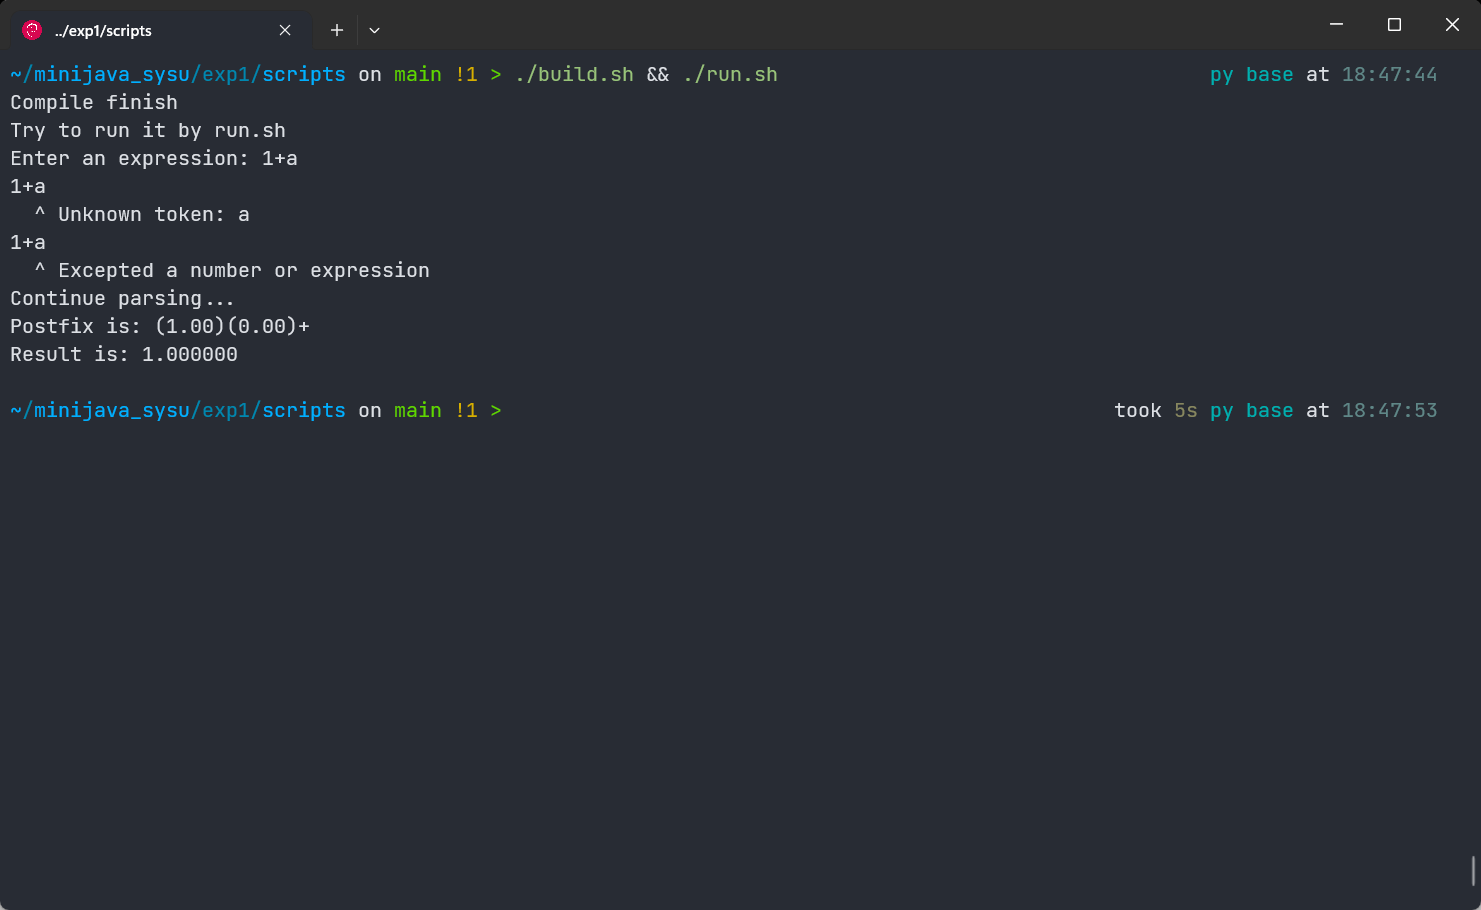
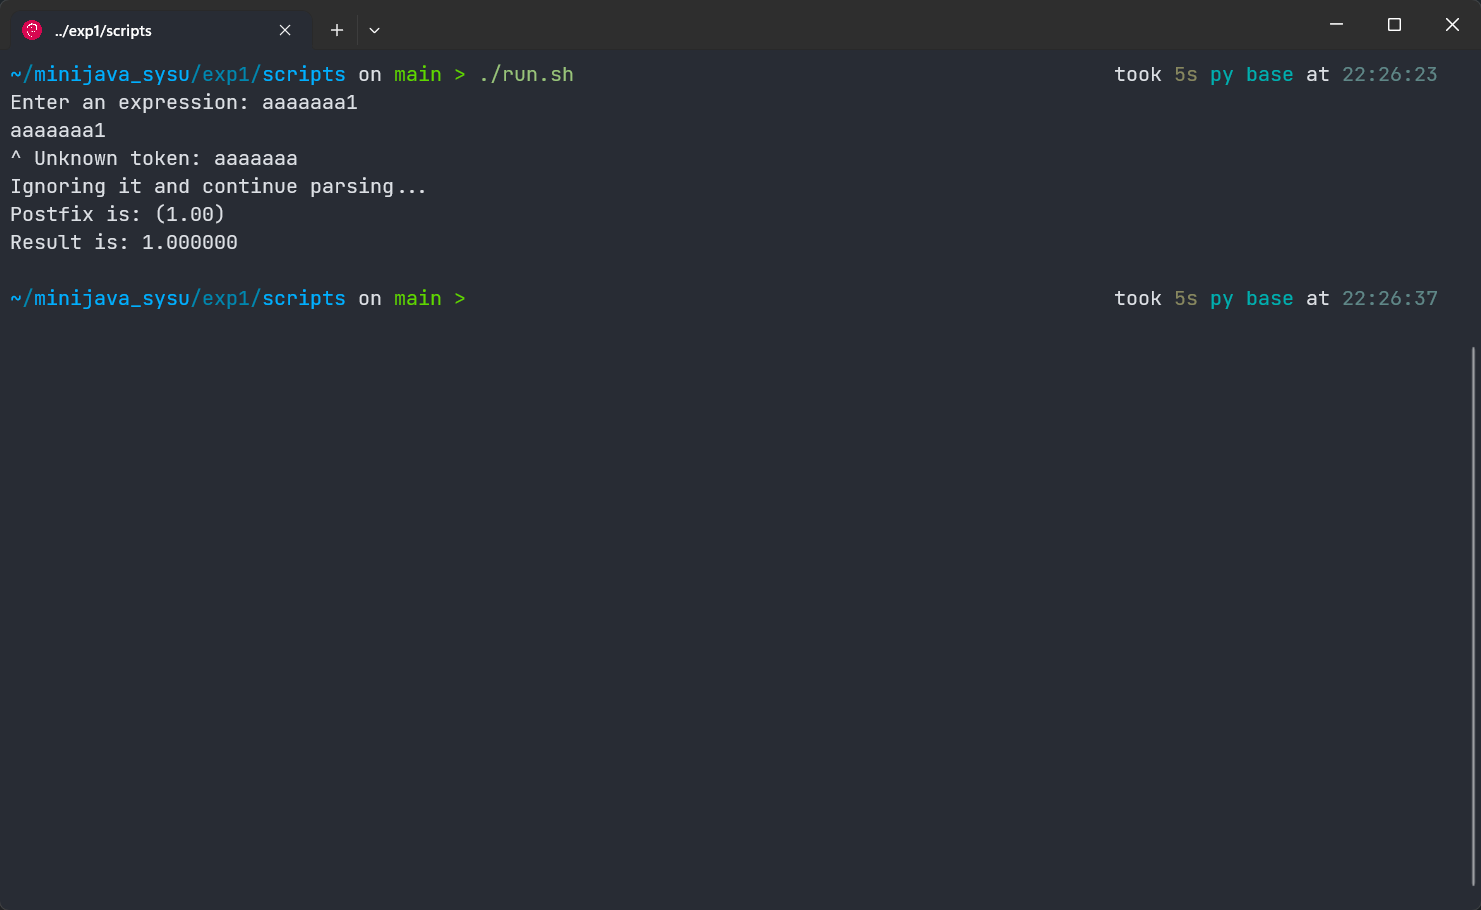
Modified README

diff --git a/exp1/README.md b/exp1/README.md
@@ -65,13 +65,33 @@ exp1
 * `run.sh` 和之前的类似，运行程序，同时将参数传递至程序
 * `test.sh` 进行测试，测试前要求运行一次 `build.sh` 和 `generate.py` 来编译并生成测试例
 
+### 类说明
+
+#### Token 类
+
+`Token` 是作为一个枚举类，写在 `Token.java` 中，目的是为了指示不同的 `Token`，例如 `tok_num` 表示的是数字，`tok_plus` 表示的是 `+` 等
+
+#### Lexer 类
+
+`Lexer` 即为词法分析器，其会不断从标准输入流中不断读入字符，并根据字符来针对性的返回所得到的 `Token` 的一个类，在这里，针对原始程序所定义的语言进行的修改，去除了无法接收空格的问题，而是对于空格，一律忽略，继续往后读，直到读到一个有意义/不明的标识符为止
+
+#### Parser 类
+
+`Parser` 类即为语法分析器，采用的方法即为递归下降法，根据 `Lexer` 所传入的 `Token`，不断进行递归下降，同时建立一个语法分析树 (在这里即为表达式二叉树)
+
+#### ast 接口类以及对应的派生
+
+这个类是用来做 `ast` 的抽象的，目的是可以使用一个抽象的方法，来统一不同的 `ast` 节点类型，例如这里实现的 `opAst` 和 `numAst` 就分别代表了运算符节点和数字节点，分别有不同的求值和求后缀表达式方法，而通过 `ast` 接口类的抽象以及函数重载，可以实现这样的过程
+
 ### 实验结论
 
 #### 1. 静态成员和非静态成员
 
 在这个实验中，无论是否删去 `static` 都不会影响程序的正确性，都能够正确的解析输入的表达式并输出，这是因为，在整个程序运行过程中，都只有一个 `Parser` 实例，不存在多个 `Parser` ，静态成员和非静态成员最主要的区别就在于，静态成员是类所共享的，而非静态成员则是实例独占的，由于在程序中只存在一个 `Parser` 实例，因而在这个程序中，静态或者是非静态并不会对程序正确性造成影响。
 
-如何选择声明为静态还是非静态取决于程序的设计，例如一个变量需要所有类共享，或者需要在没有实例的情况下被引用，那么设计为静态则是更好的，在这里，保留了静态的设定，因为在语法解析中，`Parser` 的后续是构建一个语法分析树，需要用到 `Parser` 中读到的数据，因而保留了静态的设定
+如何选择声明为静态还是非静态取决于程序的设计，例如一个变量需要所有类共享，或者需要在没有实例的情况下被引用，那么设计为静态则是更好的。
+
+在这里，`Lexer` 类中保留了 `lastChar` (即给定代码的 `lookahead`) 为静态的设定，因为在语法解析中，`Parser` 的后续是构建一个语法分析树，需要用到 `Lexer` 中读到的数据，因而保留了静态的设定
 
 #### 2. 消除尾递归
 
@@ -86,7 +106,7 @@ rest \ ::= \ + \ rest \ | \ - \ rest \\
 term \ ::= 0 | 1 | 2 | 3 | 4 | 5 | 6 | 7 | 8 | 9
 $$
 
-一个想法是，是否可以实现一个完整的四则运算解析，首先需要考虑的是运算优先级，即 `*` 和 `/` 需要优先被解析，之后才是 `+` 和 `-` ，同时还需要注意到的是，括号的优先级，即形如 `(expr)` 的表达式在任何时候，都需要被优先的解析，也就是，需要另一个 `rest` 项，来做 `*` 和 `/` 的解析，且需要在 `rest` 前被解析，我们可以这样考虑，将 `term` 改写如下的形式
+对于程序扩展的一个想法是，是否可以实现一个完整的四则运算解析，首先需要考虑的是运算优先级，即 `*` 和 `/` 需要优先被解析，之后才是 `+` 和 `-` ，同时还需要注意到的是，括号的优先级，即形如 `(expr)` 的表达式在任何时候，都需要被优先的解析，也就是，需要另一个 `rest` 项，来做 `*` 和 `/` 的解析，且需要在 `rest` 前被解析，我们可以这样考虑，将 `term` 改写如下的形式
 $$
 term \ ::= \ factor \ term' \\
 factor \ ::= \ number \ | \ ( \ expr \ ) \\
@@ -109,35 +129,35 @@ Factor \ ::= \ Number \ | \ -Number \ | \ ( \ Expr \ )\\
 Op1 \ ::= \ + \ | \ - \ \\
 Op2 \ ::= \ * \ | \ / \
 $$
-错误处理需要做的主要是在那些非空的终结符上才能实现，因为如果可以为空，那么一个可能的情况是在这里可以推导为空，当前的符号是后面一个语法项的，所以主要的错误处理都放在了 `Factor` 因子的推导，即可能的错误为
+错误处理首先需要考虑的是在那些非空的终结符上的，因为对于那些可以为空的串，一个可能的情况是在这里可以推导为空，当前的符号是后面一个语法项的，所以主要的错误处理都放在了 `Factor` 因子的推导，即可能的错误为
 
 * 括号不匹配
 * 不是数字也不是一个括号表达式
 
-而关于一个错误的字符的问题，我选择的做法是将 `lexer` 和 `parser` 分离，错误串通过 `lexer` 来报错给出，`parser` 只给出错误语法信息
+而关于一个错误的字符的问题，我选择的做法是将 `lexer` 和 `parser` 分离，`lexer` 面对不合规的字符的时候，返回一个 `unknown` 的 `Token Class` 并由 `parser` 预先对 `lexer` 的输出做筛选，筛选出那些并不是 `unknown` 的 `token` 做 `parse` 具体的情况可以见下面的图
 
 对于空格问题，在 `Lexer` 代码中，选择了忽略空格，读取空格所采取的步骤是直接继续往后读，直到读到的是非空格为止，但是对于允许空格，又会带来新的问题，例如考虑下面的表达式
 
 ```
-1123  234 + 2134  1234
+1123  234 + 2134 * 1234 11 12 123
 ```
 
 通过 `Lexer` 会得到如下的 `Token` 表示
 
 ```
-tok_num tok_num tok_plus tok_num tok_num
+tok_num tok_num tok_plus tok_num tok_star tok_num tok_num tok_num tok_num
 ```
 
 也就是出现了连续的数字的情况，在这种情况下，需要对 `expr'` 和 `term'` 做修改，以 `expr'` 为例
 
 ```java
 private ast parseExprT(ast term) throws IOException {
-    Token t = this.l.next();
+    Token t = next();
 
     while (t == Token.tok_num) {
-        logError("Excepted a operator, giving a '+'\nContinue parsing...");
+        logError("Expecting a operator, giving a '+'\nContinue parsing...");
         term = new opAst('+', term, new numAst(Double.parseDouble(this.l.getBuf())));
-        t = this.l.next();
+        t = next();
     }
 
     while (t == Token.tok_plus || t == Token.tok_minus) {
@@ -145,7 +165,13 @@ private ast parseExprT(ast term) throws IOException {
         ast term1 = this.parseTerm();
         ast current = new opAst(op, term, term1);
         term = current;
-        t = this.l.next();
+        t = next();
+
+        while (t == Token.tok_num) {
+            logError("Expecting a operator, giving a '+'\nContinue parsing...");
+            term = new opAst('+', term, new numAst(Double.parseDouble(this.l.getBuf())));
+            t = next();
+        }
     }        
 
     this.l.hold();
@@ -164,6 +190,8 @@ private ast parseExprT(ast term) throws IOException {
 <center>空格造成的多数字连接</center>
 
 ![](./assert/errordetect2.png)
+
+对于这个 `parse` 结果，简单解释下，即对于出现数字中没有符号连接的情况，会假定给出一个符号，例如上面都给出了一个 `*` ，目的是为了让 `parser` 继续工作，继续 `parse`，而不是由于错误而直接停止退出
 
 <center>未匹配的括号</center>
 
